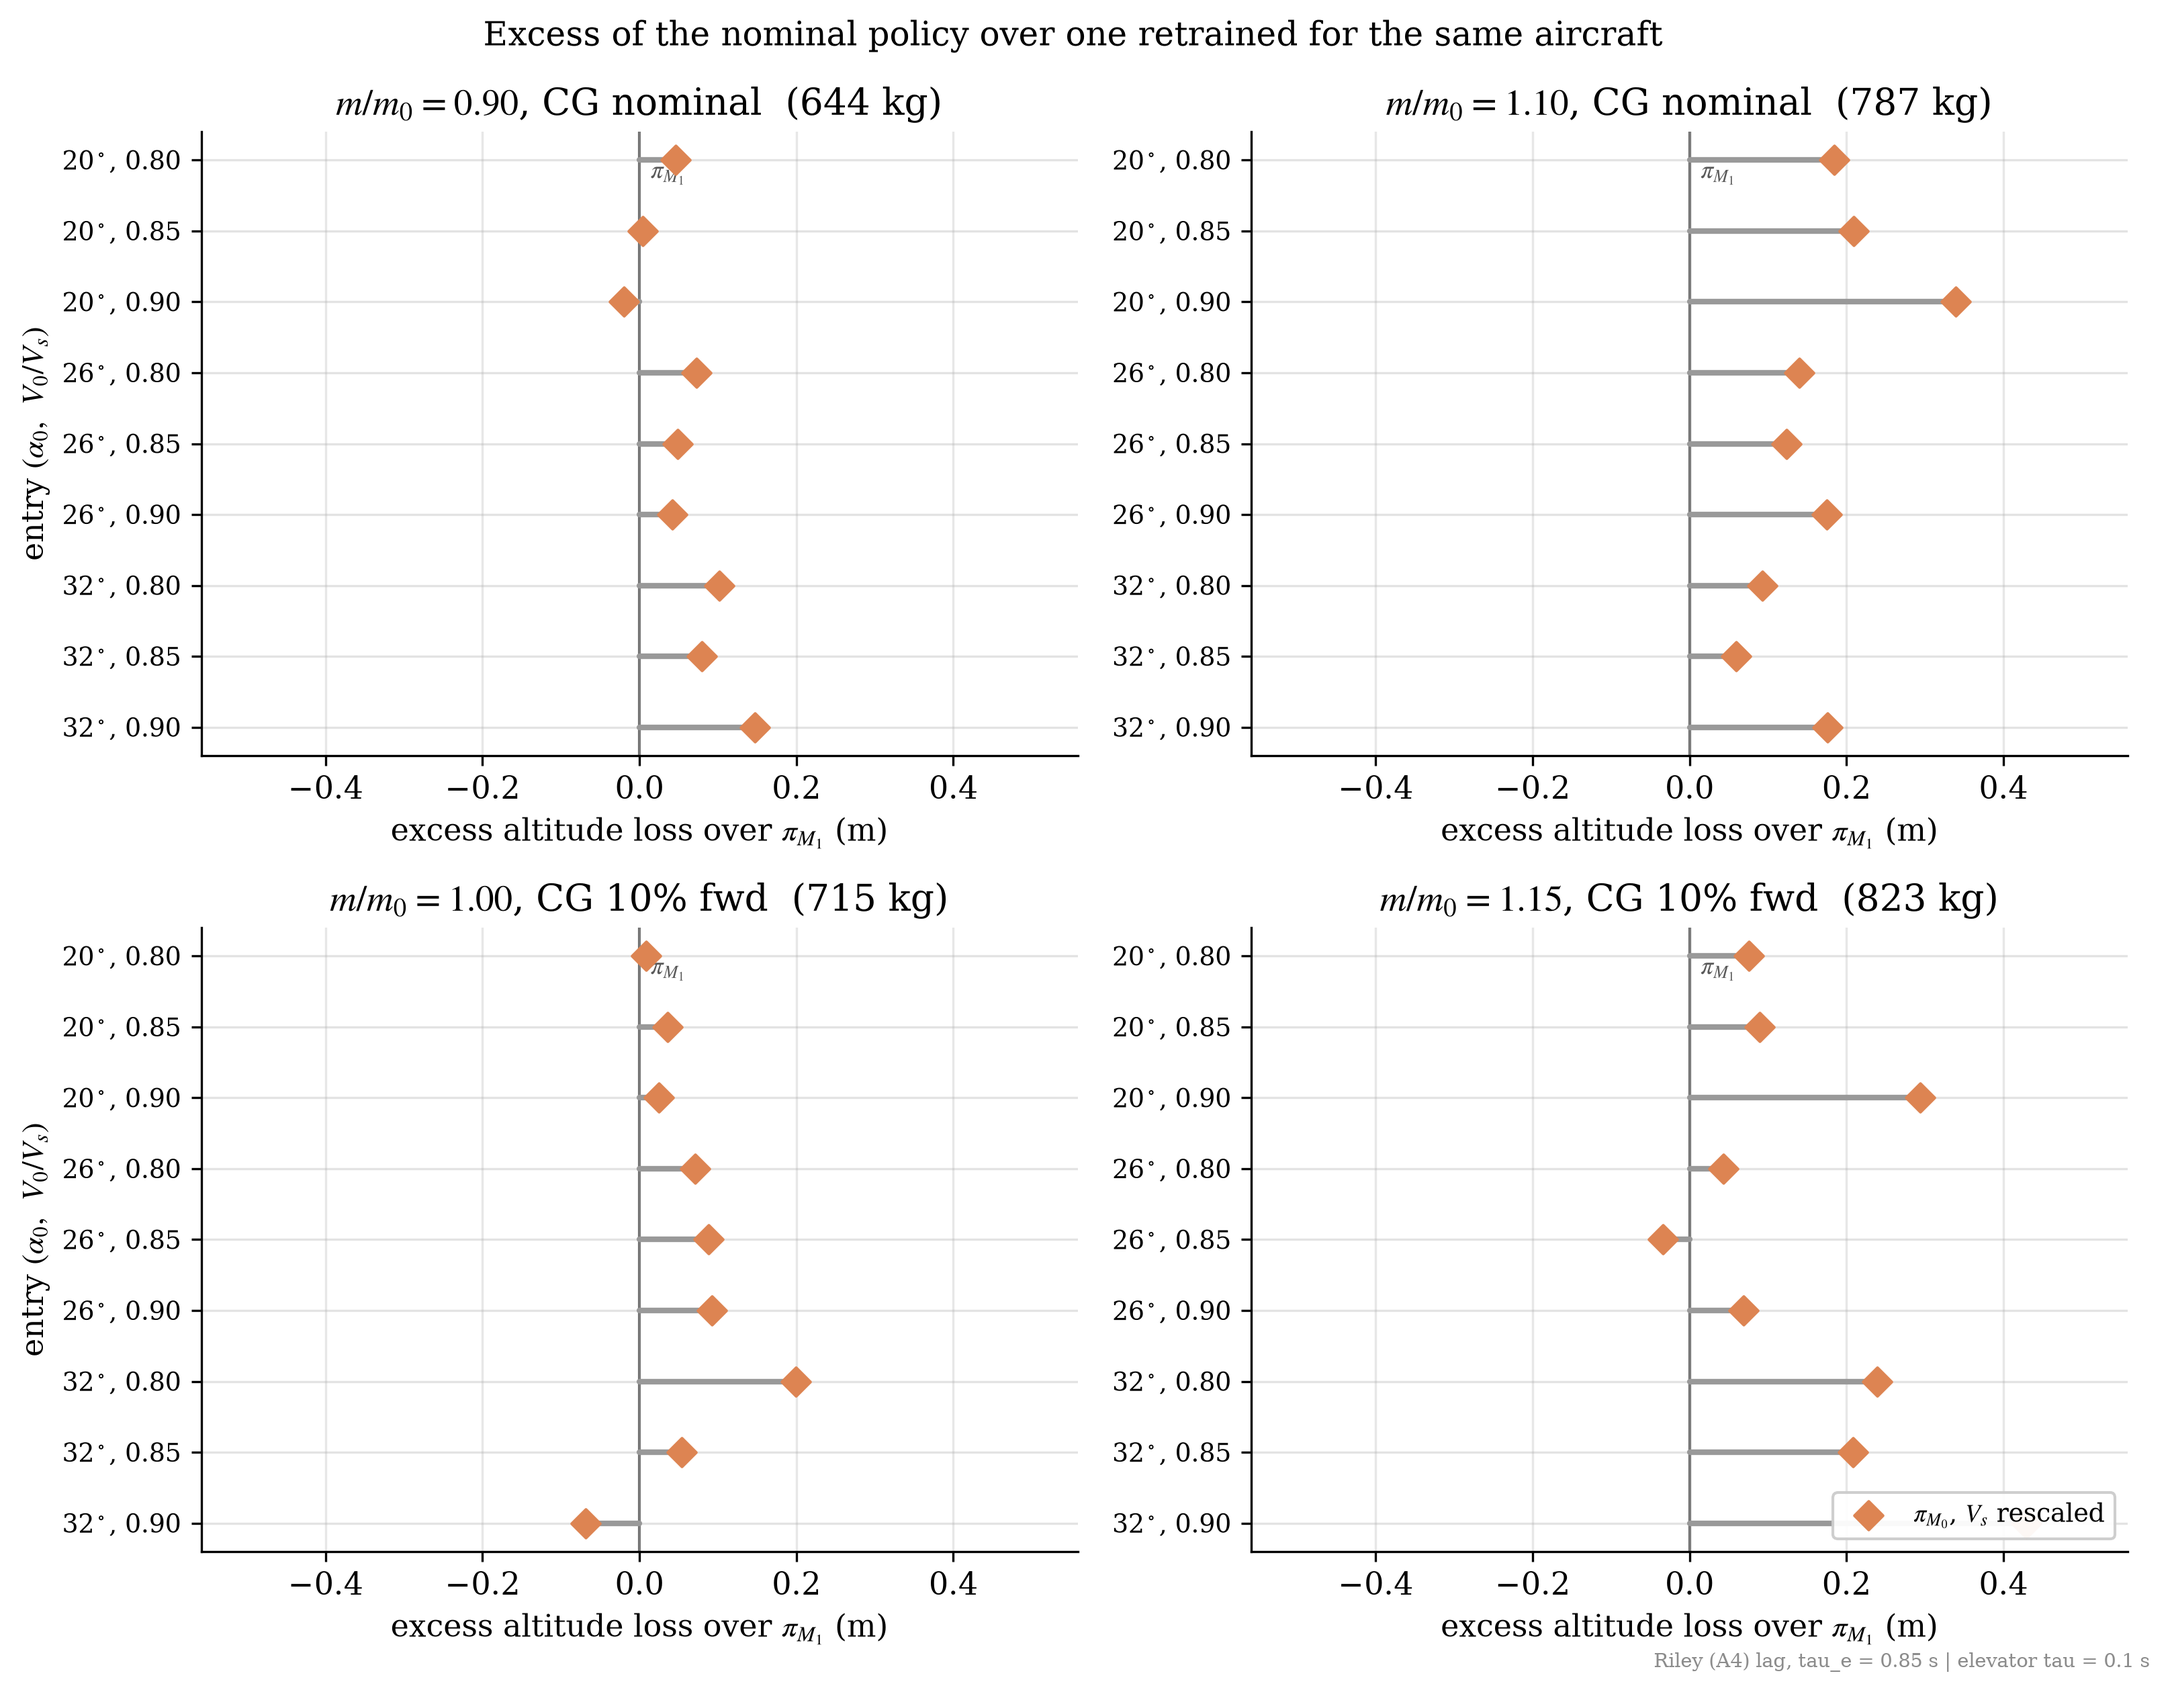
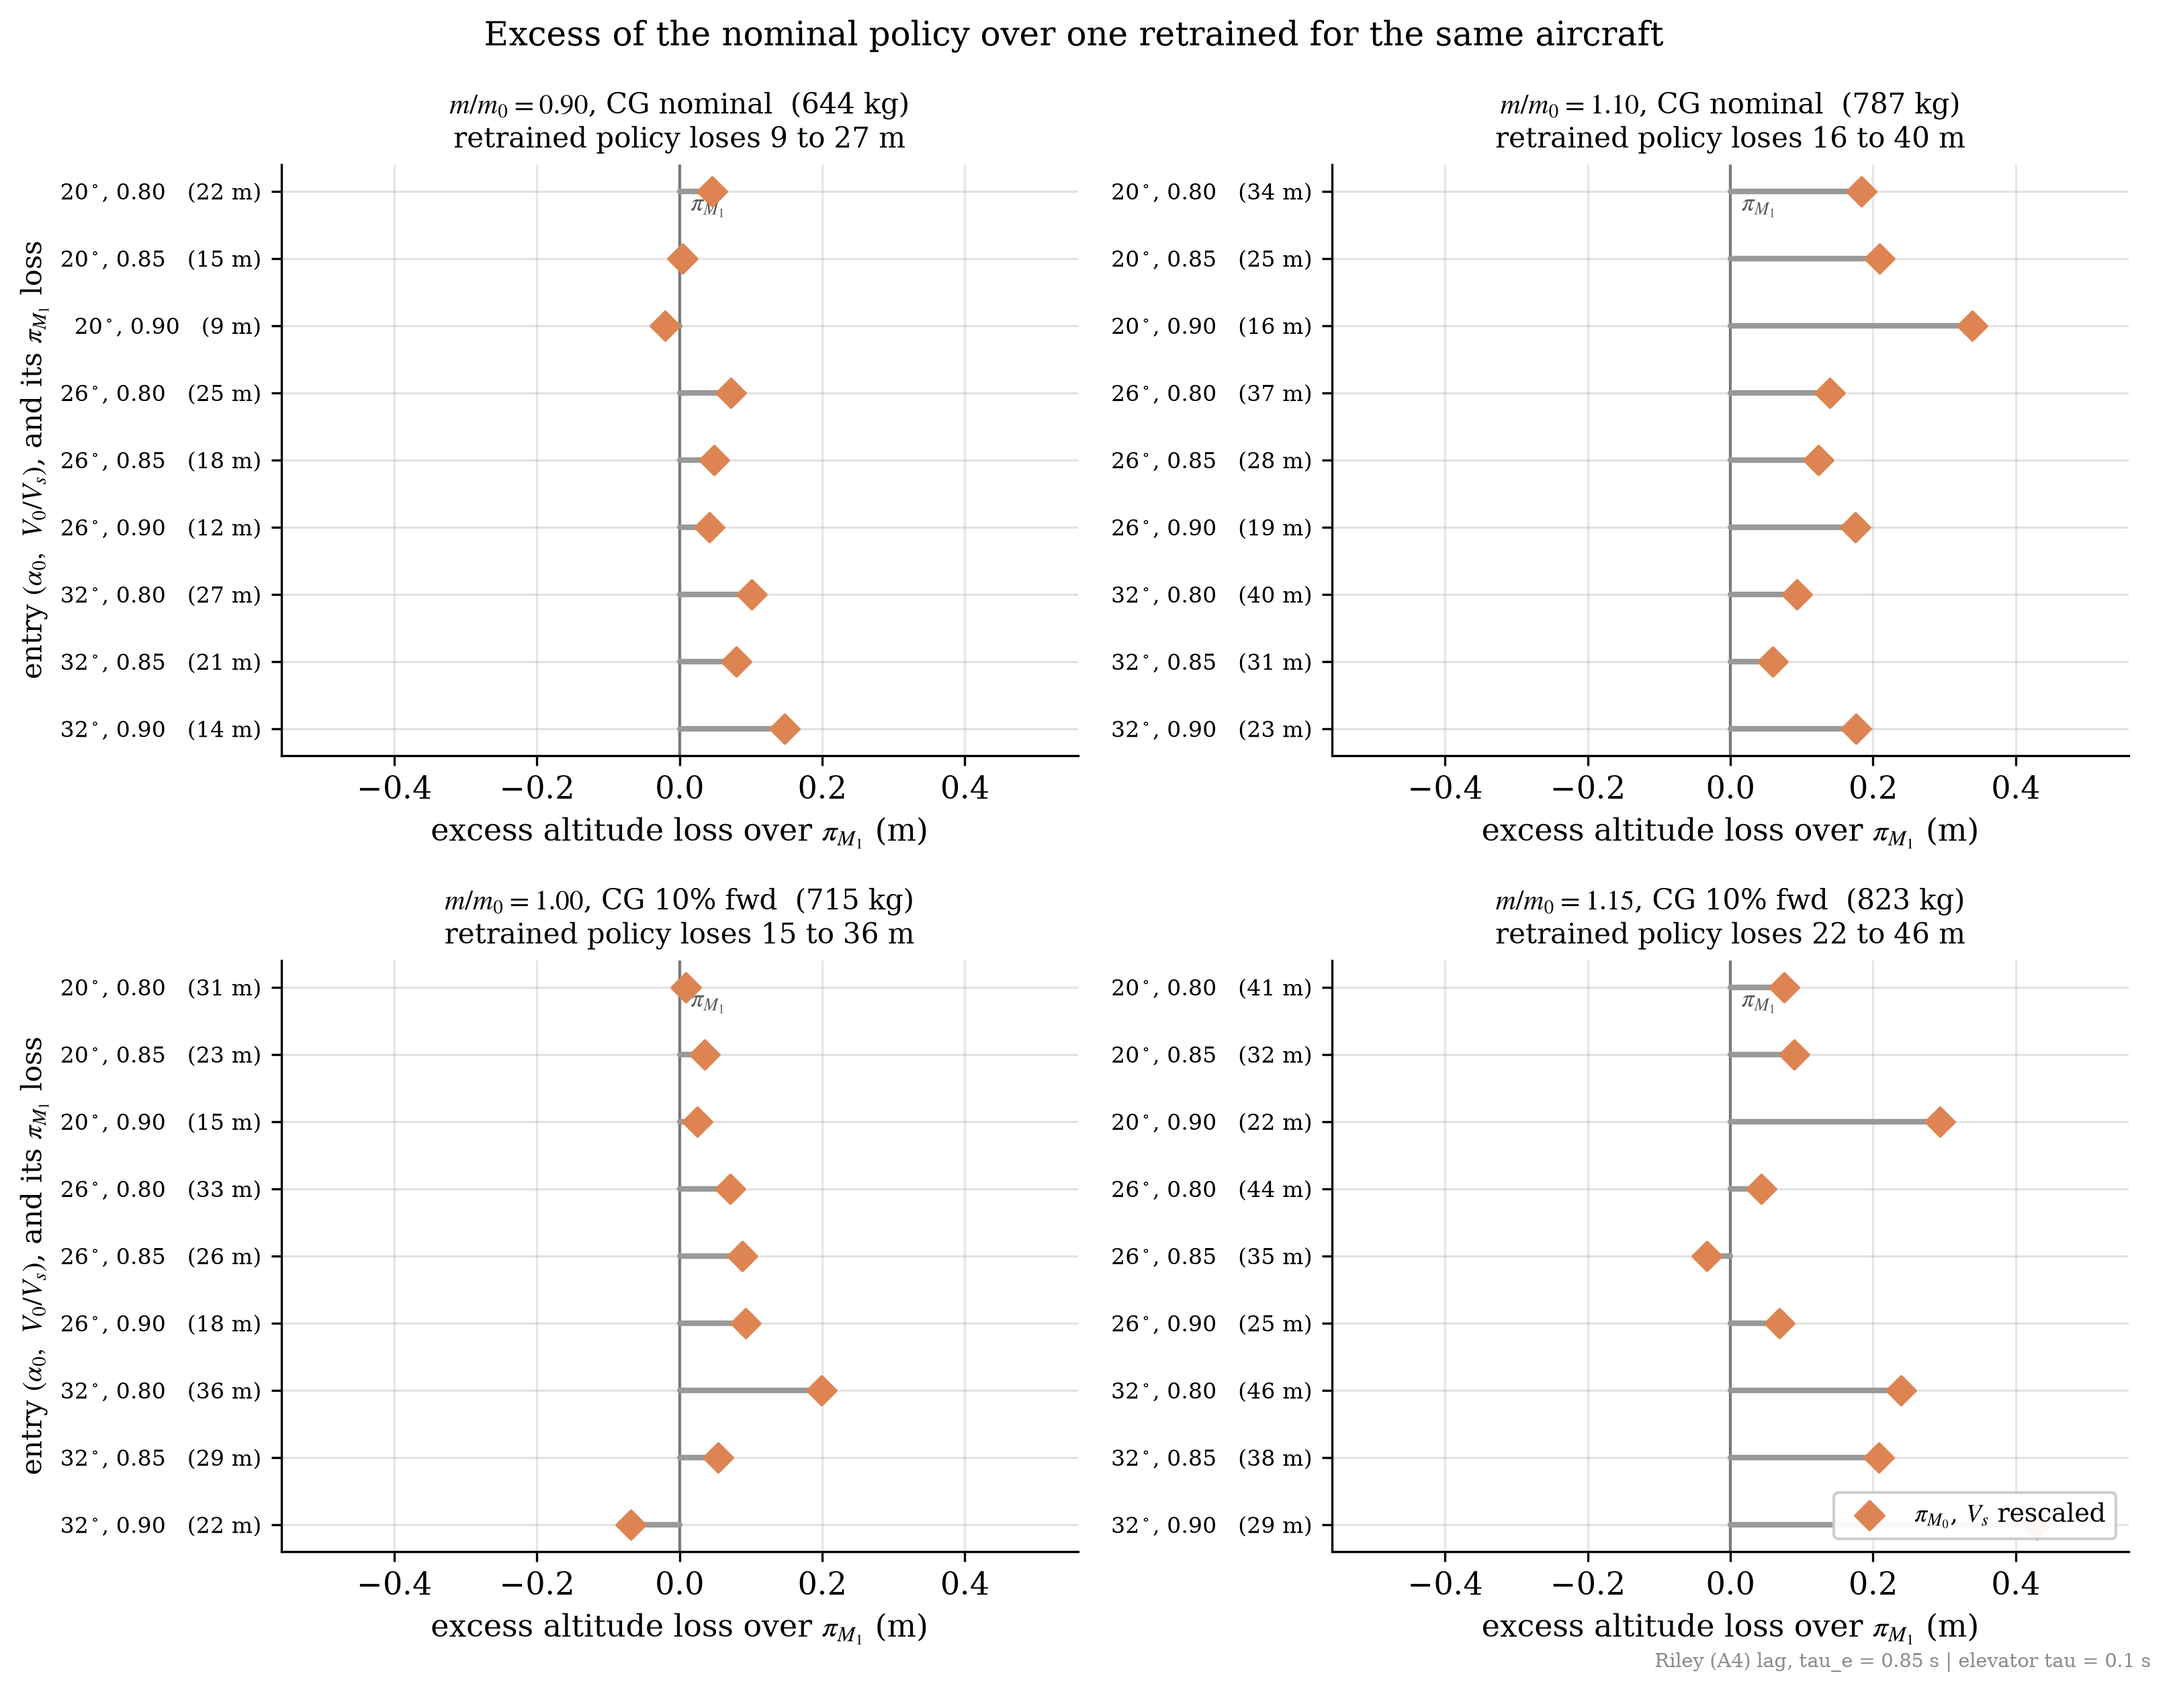
Put the loss each excess is measured against on the figure
Switching the axis to metres fixed the denominator problem by removing
the denominator, and took the reader's frame of reference with it. A
reviewer looking at 0.34 m has no way to know whether that is a fifth of
the manoeuvre or a hundredth of it; the per-cent axis at least carried
that information implicitly, badly.

Every row now names the loss it is an excess over, in its tick label,
and every panel states the range in its title. The claim the figure
makes is legible from the figure alone: retraining buys 0.1 to 0.4 m on
recoveries costing 9 to 46 m.

Also fixes two rendering defects introduced with it: matplotlib does not
convert "--" to a dash outside math mode, so the panel titles read
"16--40 m", and the long y-axis label overran into the neighbouring
panel.

diff --git a/scripts/paper1/retrain_mass_study.py b/scripts/paper1/retrain_mass_study.py
@@ -376,10 +376,19 @@ def make_dumbbell(rows, out_stem: Path) -> None:
             ax.scatter([r[KEY] for r in sub], y, s=52, zorder=4,
                        color="#dd8452", marker="D",
                        label=r"$\pi_{M_0}$, $V_s$ rescaled")
+            # The floor goes in the tick label. Plotting the excess in metres
+            # removes the denominator the per-cent axis carried implicitly, and
+            # without it 0.4 m is uncalibrated: a reader cannot tell whether it
+            # is a fifth of the manoeuvre or a hundredth. Each row now shows
+            # what its own excess is an excess OVER.
             ax.set_yticks(y, [f"{r['alpha0_deg']:.0f}$^\\circ$, "
-                              f"{r['vnorm0']:.2f}" for r in sub], fontsize=9)
+                              f"{r['vnorm0']:.2f}   ({abs(r['h_pi_M1']):.0f} m)"
+                              for r in sub], fontsize=8)
             ax.set_xlabel(r"excess altitude loss over $\pi_{M_1}$ (m)")
-            ax.set_title(f"{case_label(mf, cg_aft)}  ({715.3152 * mf:.0f} kg)")
+            floor = [abs(r["h_pi_M1"]) for r in sub]
+            ax.set_title(f"{case_label(mf, cg_aft)}  ({715.3152 * mf:.0f} kg)\n"
+                         f"retrained policy loses {min(floor):.0f} to "
+                         f"{max(floor):.0f} m", fontsize=10)
             ax.grid(alpha=0.3, axis="x")
             ax.invert_yaxis()
             ax.set_xlim(-xmax, xmax)
@@ -391,7 +400,8 @@ def make_dumbbell(rows, out_stem: Path) -> None:
         for ax in flat[len(cases):]:     # an odd case count leaves a hole
             ax.set_visible(False)
         for row in range(nrows):
-            axs[row, 0].set_ylabel(r"entry $(\alpha_0,\ V_0/V_s)$")
+            axs[row, 0].set_ylabel(r"entry $(\alpha_0,\ V_0/V_s)$, "
+                                   r"and its $\pi_{M_1}$ loss", fontsize=10)
         flat[len(cases) - 1].legend(loc="lower right", framealpha=0.95)
         fig.suptitle(r"Excess of the nominal policy over one retrained "
                      r"for the same aircraft", fontsize=12)
